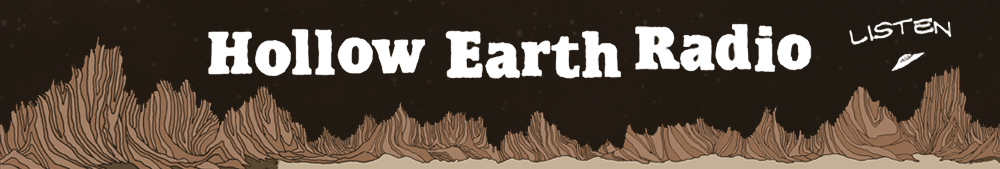
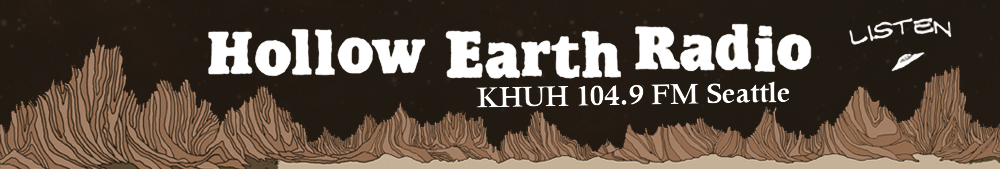
Btpnlsl/90 (#101)
* Add LPFM info to front page and update the banner

Changed region(s): [[0.465, 0.4734, 0.806, 0.6509]]

diff --git a/app/assets/stylesheets/her.css.scss b/app/assets/stylesheets/her.css.scss
@@ -134,7 +134,7 @@ h3{
 #recently_played{
     width:420px;
     float:right;
-    margin:5px 0 8px 20px;
+    margin:5px 0 8px 5px;
     background:#bda593;
     border:1px #433323 dotted;
     font-size:12px;
